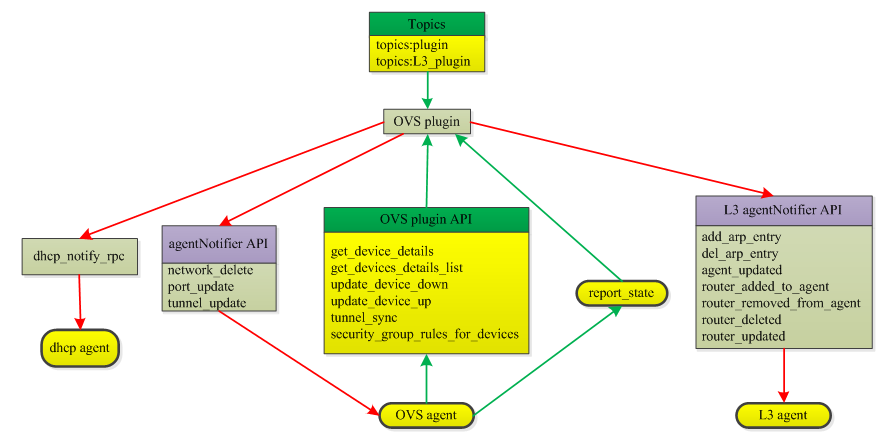
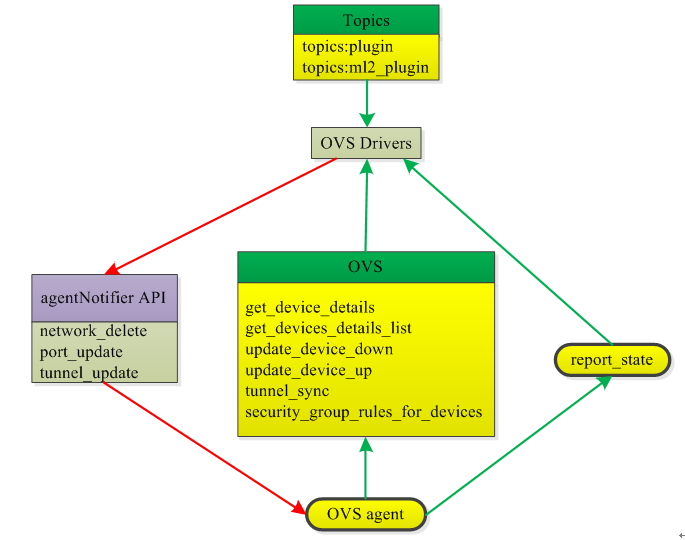
Site updated at 2016-04-14 03:39:11 UTC

diff --git a/blog/2016/04/13/rabbitmq-introduction/index.html b/blog/2016/04/13/rabbitmq-introduction/index.html
@@ -229,7 +229,7 @@
 
 <p>(3).镜像队列，实现不同节点之间的元数据和消息同步</p>
 
-<h2>RabbitMQ在OpenStack中的应用</h2>
+<h1><em>RabbitMQ在OpenStack中的应用</em></h1>
 
 <h3><strong>RPC之neutron专题</strong></h3>
 
@@ -313,11 +313,36 @@
 
 <h4>2.neutron-plugin中的RPC</h4>
 
-<p>以openvswitch的plugin为例进行分析。</p>
+<p>主要对ML2Plugin进行分析，包括两个类：RpcCallbacks和AgentNotifierApi。</p>
 
-<p>neutron.plugin.openvswitch.ovs_neutron_plugin.OVSNeutronPluginV2类在初始化的时候调用了self.setup_rpc方法。</p>
+<ul>
+<li><p><strong>RpcCallbacks：</strong>负责当agent往plugin发出rpc请求时候，plugin实现请求的相关动作，除了继承自父类（dhcp rpc、dvr rpc、sg_db rpc和tunnel rpc）中的方法，还包括get_port_from_device、get_device_details、get_devices_details_list、update_device_down、update_device_up、get_dvr_mac_address_by_host、get_compute_ports_on_host_by_subnet、get_subnet_for_dvr等方法。</p></li>
+<li><p><strong>AgentNotifierApi：</strong>负责当plugin往agent发出rpc请求（plugin通知agent）的时候，plugin端的方法。</p></li>
+</ul>
 
-<p>其代码为</p>
+
+<figure class='code'><figcaption><span></span></figcaption><div class="highlight"><table><tr><td class="gutter"><pre class="line-numbers"><span class='line-number'>1</span>
+<span class='line-number'>2</span>
+<span class='line-number'>3</span>
+<span class='line-number'>4</span>
+<span class='line-number'>5</span>
+<span class='line-number'>6</span>
+<span class='line-number'>7</span>
+</pre></td><td class='code'><pre><code class='python'><span class='line'><span class="k">def</span> <span class="nf">start_rpc_listeners</span><span class="p">(</span><span class="bp">self</span><span class="p">):</span>
+</span><span class='line'>    <span class="sd">&quot;&quot;&quot;RpcCallbacks中实现的方法：Start the RPC loop to let the plugin communicate with agents.&quot;&quot;&quot;</span>
+</span><span class='line'>    <span class="bp">self</span><span class="o">.</span><span class="n">_setup_rpc</span><span class="p">()</span>
+</span><span class='line'>    <span class="bp">self</span><span class="o">.</span><span class="n">topic</span> <span class="o">=</span> <span class="n">topics</span><span class="o">.</span><span class="n">PLUGIN</span>
+</span><span class='line'>    <span class="bp">self</span><span class="o">.</span><span class="n">conn</span> <span class="o">=</span> <span class="n">n_rpc</span><span class="o">.</span><span class="n">create_connection</span><span class="p">(</span><span class="n">new</span><span class="o">=</span><span class="bp">True</span><span class="p">)</span>
+</span><span class='line'>    <span class="bp">self</span><span class="o">.</span><span class="n">conn</span><span class="o">.</span><span class="n">create_consumer</span><span class="p">(</span><span class="bp">self</span><span class="o">.</span><span class="n">topic</span><span class="p">,</span> <span class="bp">self</span><span class="o">.</span><span class="n">endpoints</span><span class="p">,</span> <span class="n">fanout</span><span class="o">=</span><span class="bp">False</span><span class="p">)</span>
+</span><span class='line'>    <span class="k">return</span> <span class="bp">self</span><span class="o">.</span><span class="n">conn</span><span class="o">.</span><span class="n">consume_in_threads</span><span class="p">()</span>
+</span></code></pre></td></tr></table></div></figure>
+
+
+<p>创建一个通知rpc的客户端，用于向OVS的agent发出通知。所有plugin都需要有这样一个发出通知消息的客户端，创建了一个OVS agent的通知rpc客户端。之后，创建两个跟service agent相关的consumer，分别监听topics.PLUGIN</p>
+
+<p> <img src="/images/RPC_Neutron.PNG"></p>
+
+<p>ovs_neutron_agent也会创建RPC的consumer，用来监听topics.UPDATE、topics.DELETE等操作。</p>
 
 <figure class='code'><figcaption><span></span></figcaption><div class="highlight"><table><tr><td class="gutter"><pre class="line-numbers"><span class='line-number'>1</span>
 <span class='line-number'>2</span>
@@ -337,34 +362,30 @@
 <span class='line-number'>16</span>
 <span class='line-number'>17</span>
 <span class='line-number'>18</span>
+<span class='line-number'>19</span>
+<span class='line-number'>20</span>
 </pre></td><td class='code'><pre><code class='python'><span class='line'><span class="k">def</span> <span class="nf">setup_rpc</span><span class="p">(</span><span class="bp">self</span><span class="p">):</span>
-</span><span class='line'>        <span class="c"># RPC support</span>
-</span><span class='line'>        <span class="bp">self</span><span class="o">.</span><span class="n">service_topics</span> <span class="o">=</span> <span class="p">{</span><span class="n">svc_constants</span><span class="o">.</span><span class="n">CORE</span><span class="p">:</span> <span class="n">topics</span><span class="o">.</span><span class="n">PLUGIN</span><span class="p">,</span>
-</span><span class='line'>                               <span class="n">svc_constants</span><span class="o">.</span><span class="n">L3_ROUTER_NAT</span><span class="p">:</span> <span class="n">topics</span><span class="o">.</span><span class="n">L3PLUGIN</span><span class="p">}</span>
-</span><span class='line'>        <span class="bp">self</span><span class="o">.</span><span class="n">conn</span> <span class="o">=</span> <span class="n">n_rpc</span><span class="o">.</span><span class="n">create_connection</span><span class="p">(</span><span class="n">new</span><span class="o">=</span><span class="bp">True</span><span class="p">)</span>
-</span><span class='line'>        <span class="bp">self</span><span class="o">.</span><span class="n">notifier</span> <span class="o">=</span> <span class="n">AgentNotifierApi</span><span class="p">(</span><span class="n">topics</span><span class="o">.</span><span class="n">AGENT</span><span class="p">)</span>
-</span><span class='line'>        <span class="bp">self</span><span class="o">.</span><span class="n">agent_notifiers</span><span class="p">[</span><span class="n">q_const</span><span class="o">.</span><span class="n">AGENT_TYPE_DHCP</span><span class="p">]</span> <span class="o">=</span> <span class="p">(</span>
-</span><span class='line'>            <span class="n">dhcp_rpc_agent_api</span><span class="o">.</span><span class="n">DhcpAgentNotifyAPI</span><span class="p">()</span>
-</span><span class='line'>        <span class="p">)</span>
-</span><span class='line'>        <span class="bp">self</span><span class="o">.</span><span class="n">agent_notifiers</span><span class="p">[</span><span class="n">q_const</span><span class="o">.</span><span class="n">AGENT_TYPE_L3</span><span class="p">]</span> <span class="o">=</span> <span class="p">(</span>
-</span><span class='line'>            <span class="n">l3_rpc_agent_api</span><span class="o">.</span><span class="n">L3AgentNotifyAPI</span><span class="p">()</span>
-</span><span class='line'>        <span class="p">)</span>
-</span><span class='line'>        <span class="bp">self</span><span class="o">.</span><span class="n">endpoints</span> <span class="o">=</span> <span class="p">[</span><span class="n">OVSRpcCallbacks</span><span class="p">(</span><span class="bp">self</span><span class="o">.</span><span class="n">notifier</span><span class="p">,</span> <span class="bp">self</span><span class="o">.</span><span class="n">tunnel_type</span><span class="p">),</span>
-</span><span class='line'>                          <span class="n">agents_db</span><span class="o">.</span><span class="n">AgentExtRpcCallback</span><span class="p">()]</span>
-</span><span class='line'>        <span class="k">for</span> <span class="n">svc_topic</span> <span class="ow">in</span> <span class="bp">self</span><span class="o">.</span><span class="n">service_topics</span><span class="o">.</span><span class="n">values</span><span class="p">():</span>
-</span><span class='line'>            <span class="bp">self</span><span class="o">.</span><span class="n">conn</span><span class="o">.</span><span class="n">create_consumer</span><span class="p">(</span><span class="n">svc_topic</span><span class="p">,</span> <span class="bp">self</span><span class="o">.</span><span class="n">endpoints</span><span class="p">,</span> <span class="n">fanout</span><span class="o">=</span><span class="bp">False</span><span class="p">)</span>
-</span><span class='line'>        <span class="c"># Consume from all consumers in threads</span>
-</span><span class='line'>        <span class="bp">self</span><span class="o">.</span><span class="n">conn</span><span class="o">.</span><span class="n">consume_in_threads</span><span class="p">()</span>
+</span><span class='line'>        <span class="bp">self</span><span class="o">.</span><span class="n">agent_id</span> <span class="o">=</span> <span class="s">&#39;ovs-agent-</span><span class="si">%s</span><span class="s">&#39;</span> <span class="o">%</span> <span class="bp">self</span><span class="o">.</span><span class="n">conf</span><span class="o">.</span><span class="n">host</span>
+</span><span class='line'>        <span class="bp">self</span><span class="o">.</span><span class="n">topic</span> <span class="o">=</span> <span class="n">topics</span><span class="o">.</span><span class="n">AGENT</span>
+</span><span class='line'>        <span class="bp">self</span><span class="o">.</span><span class="n">plugin_rpc</span> <span class="o">=</span> <span class="n">OVSPluginApi</span><span class="p">(</span><span class="n">topics</span><span class="o">.</span><span class="n">PLUGIN</span><span class="p">)</span>
+</span><span class='line'>        <span class="bp">self</span><span class="o">.</span><span class="n">sg_plugin_rpc</span> <span class="o">=</span> <span class="n">sg_rpc</span><span class="o">.</span><span class="n">SecurityGroupServerRpcApi</span><span class="p">(</span><span class="n">topics</span><span class="o">.</span><span class="n">PLUGIN</span><span class="p">)</span>
+</span><span class='line'>        <span class="bp">self</span><span class="o">.</span><span class="n">dvr_plugin_rpc</span> <span class="o">=</span> <span class="n">dvr_rpc</span><span class="o">.</span><span class="n">DVRServerRpcApi</span><span class="p">(</span><span class="n">topics</span><span class="o">.</span><span class="n">PLUGIN</span><span class="p">)</span>
+</span><span class='line'>        <span class="bp">self</span><span class="o">.</span><span class="n">state_rpc</span> <span class="o">=</span> <span class="n">agent_rpc</span><span class="o">.</span><span class="n">PluginReportStateAPI</span><span class="p">(</span><span class="n">topics</span><span class="o">.</span><span class="n">PLUGIN</span><span class="p">)</span>
+</span><span class='line'>
+</span><span class='line'>        <span class="c"># RPC network init</span>
+</span><span class='line'>        <span class="bp">self</span><span class="o">.</span><span class="n">context</span> <span class="o">=</span> <span class="n">context</span><span class="o">.</span><span class="n">get_admin_context_without_session</span><span class="p">()</span>
+</span><span class='line'>        <span class="c"># Handle updates from service</span>
+</span><span class='line'>        <span class="bp">self</span><span class="o">.</span><span class="n">endpoints</span> <span class="o">=</span> <span class="p">[</span><span class="bp">self</span><span class="p">]</span>
+</span><span class='line'>        <span class="c"># Define the listening consumers for the agent</span>
+</span><span class='line'>        <span class="n">consumers</span> <span class="o">=</span> <span class="p">[[</span><span class="n">topics</span><span class="o">.</span><span class="n">PORT</span><span class="p">,</span> <span class="n">topics</span><span class="o">.</span><span class="n">UPDATE</span><span class="p">],</span>
+</span><span class='line'>                     <span class="p">[</span><span class="n">topics</span><span class="o">.</span><span class="n">PORT</span><span class="p">,</span> <span class="n">topics</span><span class="o">.</span><span class="n">DELETE</span><span class="p">],</span>
+</span><span class='line'>                     <span class="p">[</span><span class="n">constants</span><span class="o">.</span><span class="n">TUNNEL</span><span class="p">,</span> <span class="n">topics</span><span class="o">.</span><span class="n">UPDATE</span><span class="p">],</span>
+</span><span class='line'>                     <span class="p">[</span><span class="n">constants</span><span class="o">.</span><span class="n">TUNNEL</span><span class="p">,</span> <span class="n">topics</span><span class="o">.</span><span class="n">DELETE</span><span class="p">],</span>
+</span><span class='line'>                     <span class="p">[</span><span class="n">topics</span><span class="o">.</span><span class="n">SECURITY_GROUP</span><span class="p">,</span> <span class="n">topics</span><span class="o">.</span><span class="n">UPDATE</span><span class="p">],</span>
+</span><span class='line'>                     <span class="p">[</span><span class="n">topics</span><span class="o">.</span><span class="n">DVR</span><span class="p">,</span> <span class="n">topics</span><span class="o">.</span><span class="n">UPDATE</span><span class="p">],</span>
+</span><span class='line'>                     <span class="p">[</span><span class="n">topics</span><span class="o">.</span><span class="n">NETWORK</span><span class="p">,</span> <span class="n">topics</span><span class="o">.</span><span class="n">UPDATE</span><span class="p">]]</span>
 </span></code></pre></td></tr></table></div></figure>
 
-
-<p>创建一个通知rpc的客户端，用于向l2的agent发出通知。所有plugin都需要有这样一个发出通知消息的客户端。</p>
-
-<p>分别创建了一个dhcp agent和l3 agent的通知rpc客户端。</p>
-
-<p>之后，创建两个跟service agent相关的consumer，分别监听topics.PLUGIN和topics.L3PLUGIN两个主题。</p>
-
-<p> <img src="/images/RPC_Neutron.PNG"></p>
 
 <h4>3.neutron-server中的RPC</h4>
 

diff --git a/index.html b/index.html
@@ -253,7 +253,7 @@
 
 <p>(3).镜像队列，实现不同节点之间的元数据和消息同步</p>
 
-<h2>RabbitMQ在OpenStack中的应用</h2>
+<h1><em>RabbitMQ在OpenStack中的应用</em></h1>
 
 <h3><strong>RPC之neutron专题</strong></h3>
 
@@ -337,11 +337,36 @@
 
 <h4>2.neutron-plugin中的RPC</h4>
 
-<p>以openvswitch的plugin为例进行分析。</p>
+<p>主要对ML2Plugin进行分析，包括两个类：RpcCallbacks和AgentNotifierApi。</p>
 
-<p>neutron.plugin.openvswitch.ovs_neutron_plugin.OVSNeutronPluginV2类在初始化的时候调用了self.setup_rpc方法。</p>
+<ul>
+<li><p><strong>RpcCallbacks：</strong>负责当agent往plugin发出rpc请求时候，plugin实现请求的相关动作，除了继承自父类（dhcp rpc、dvr rpc、sg_db rpc和tunnel rpc）中的方法，还包括get_port_from_device、get_device_details、get_devices_details_list、update_device_down、update_device_up、get_dvr_mac_address_by_host、get_compute_ports_on_host_by_subnet、get_subnet_for_dvr等方法。</p></li>
+<li><p><strong>AgentNotifierApi：</strong>负责当plugin往agent发出rpc请求（plugin通知agent）的时候，plugin端的方法。</p></li>
+</ul>
 
-<p>其代码为</p>
+
+<figure class='code'><figcaption><span></span></figcaption><div class="highlight"><table><tr><td class="gutter"><pre class="line-numbers"><span class='line-number'>1</span>
+<span class='line-number'>2</span>
+<span class='line-number'>3</span>
+<span class='line-number'>4</span>
+<span class='line-number'>5</span>
+<span class='line-number'>6</span>
+<span class='line-number'>7</span>
+</pre></td><td class='code'><pre><code class='python'><span class='line'><span class="k">def</span> <span class="nf">start_rpc_listeners</span><span class="p">(</span><span class="bp">self</span><span class="p">):</span>
+</span><span class='line'>    <span class="sd">&quot;&quot;&quot;RpcCallbacks中实现的方法：Start the RPC loop to let the plugin communicate with agents.&quot;&quot;&quot;</span>
+</span><span class='line'>    <span class="bp">self</span><span class="o">.</span><span class="n">_setup_rpc</span><span class="p">()</span>
+</span><span class='line'>    <span class="bp">self</span><span class="o">.</span><span class="n">topic</span> <span class="o">=</span> <span class="n">topics</span><span class="o">.</span><span class="n">PLUGIN</span>
+</span><span class='line'>    <span class="bp">self</span><span class="o">.</span><span class="n">conn</span> <span class="o">=</span> <span class="n">n_rpc</span><span class="o">.</span><span class="n">create_connection</span><span class="p">(</span><span class="n">new</span><span class="o">=</span><span class="bp">True</span><span class="p">)</span>
+</span><span class='line'>    <span class="bp">self</span><span class="o">.</span><span class="n">conn</span><span class="o">.</span><span class="n">create_consumer</span><span class="p">(</span><span class="bp">self</span><span class="o">.</span><span class="n">topic</span><span class="p">,</span> <span class="bp">self</span><span class="o">.</span><span class="n">endpoints</span><span class="p">,</span> <span class="n">fanout</span><span class="o">=</span><span class="bp">False</span><span class="p">)</span>
+</span><span class='line'>    <span class="k">return</span> <span class="bp">self</span><span class="o">.</span><span class="n">conn</span><span class="o">.</span><span class="n">consume_in_threads</span><span class="p">()</span>
+</span></code></pre></td></tr></table></div></figure>
+
+
+<p>创建一个通知rpc的客户端，用于向OVS的agent发出通知。所有plugin都需要有这样一个发出通知消息的客户端，创建了一个OVS agent的通知rpc客户端。之后，创建两个跟service agent相关的consumer，分别监听topics.PLUGIN</p>
+
+<p> <img src="/images/RPC_Neutron.PNG"></p>
+
+<p>ovs_neutron_agent也会创建RPC的consumer，用来监听topics.UPDATE、topics.DELETE等操作。</p>
 
 <figure class='code'><figcaption><span></span></figcaption><div class="highlight"><table><tr><td class="gutter"><pre class="line-numbers"><span class='line-number'>1</span>
 <span class='line-number'>2</span>
@@ -361,34 +386,30 @@
 <span class='line-number'>16</span>
 <span class='line-number'>17</span>
 <span class='line-number'>18</span>
+<span class='line-number'>19</span>
+<span class='line-number'>20</span>
 </pre></td><td class='code'><pre><code class='python'><span class='line'><span class="k">def</span> <span class="nf">setup_rpc</span><span class="p">(</span><span class="bp">self</span><span class="p">):</span>
-</span><span class='line'>        <span class="c"># RPC support</span>
-</span><span class='line'>        <span class="bp">self</span><span class="o">.</span><span class="n">service_topics</span> <span class="o">=</span> <span class="p">{</span><span class="n">svc_constants</span><span class="o">.</span><span class="n">CORE</span><span class="p">:</span> <span class="n">topics</span><span class="o">.</span><span class="n">PLUGIN</span><span class="p">,</span>
-</span><span class='line'>                               <span class="n">svc_constants</span><span class="o">.</span><span class="n">L3_ROUTER_NAT</span><span class="p">:</span> <span class="n">topics</span><span class="o">.</span><span class="n">L3PLUGIN</span><span class="p">}</span>
-</span><span class='line'>        <span class="bp">self</span><span class="o">.</span><span class="n">conn</span> <span class="o">=</span> <span class="n">n_rpc</span><span class="o">.</span><span class="n">create_connection</span><span class="p">(</span><span class="n">new</span><span class="o">=</span><span class="bp">True</span><span class="p">)</span>
-</span><span class='line'>        <span class="bp">self</span><span class="o">.</span><span class="n">notifier</span> <span class="o">=</span> <span class="n">AgentNotifierApi</span><span class="p">(</span><span class="n">topics</span><span class="o">.</span><span class="n">AGENT</span><span class="p">)</span>
-</span><span class='line'>        <span class="bp">self</span><span class="o">.</span><span class="n">agent_notifiers</span><span class="p">[</span><span class="n">q_const</span><span class="o">.</span><span class="n">AGENT_TYPE_DHCP</span><span class="p">]</span> <span class="o">=</span> <span class="p">(</span>
-</span><span class='line'>            <span class="n">dhcp_rpc_agent_api</span><span class="o">.</span><span class="n">DhcpAgentNotifyAPI</span><span class="p">()</span>
-</span><span class='line'>        <span class="p">)</span>
-</span><span class='line'>        <span class="bp">self</span><span class="o">.</span><span class="n">agent_notifiers</span><span class="p">[</span><span class="n">q_const</span><span class="o">.</span><span class="n">AGENT_TYPE_L3</span><span class="p">]</span> <span class="o">=</span> <span class="p">(</span>
-</span><span class='line'>            <span class="n">l3_rpc_agent_api</span><span class="o">.</span><span class="n">L3AgentNotifyAPI</span><span class="p">()</span>
-</span><span class='line'>        <span class="p">)</span>
-</span><span class='line'>        <span class="bp">self</span><span class="o">.</span><span class="n">endpoints</span> <span class="o">=</span> <span class="p">[</span><span class="n">OVSRpcCallbacks</span><span class="p">(</span><span class="bp">self</span><span class="o">.</span><span class="n">notifier</span><span class="p">,</span> <span class="bp">self</span><span class="o">.</span><span class="n">tunnel_type</span><span class="p">),</span>
-</span><span class='line'>                          <span class="n">agents_db</span><span class="o">.</span><span class="n">AgentExtRpcCallback</span><span class="p">()]</span>
-</span><span class='line'>        <span class="k">for</span> <span class="n">svc_topic</span> <span class="ow">in</span> <span class="bp">self</span><span class="o">.</span><span class="n">service_topics</span><span class="o">.</span><span class="n">values</span><span class="p">():</span>
-</span><span class='line'>            <span class="bp">self</span><span class="o">.</span><span class="n">conn</span><span class="o">.</span><span class="n">create_consumer</span><span class="p">(</span><span class="n">svc_topic</span><span class="p">,</span> <span class="bp">self</span><span class="o">.</span><span class="n">endpoints</span><span class="p">,</span> <span class="n">fanout</span><span class="o">=</span><span class="bp">False</span><span class="p">)</span>
-</span><span class='line'>        <span class="c"># Consume from all consumers in threads</span>
-</span><span class='line'>        <span class="bp">self</span><span class="o">.</span><span class="n">conn</span><span class="o">.</span><span class="n">consume_in_threads</span><span class="p">()</span>
+</span><span class='line'>        <span class="bp">self</span><span class="o">.</span><span class="n">agent_id</span> <span class="o">=</span> <span class="s">&#39;ovs-agent-</span><span class="si">%s</span><span class="s">&#39;</span> <span class="o">%</span> <span class="bp">self</span><span class="o">.</span><span class="n">conf</span><span class="o">.</span><span class="n">host</span>
+</span><span class='line'>        <span class="bp">self</span><span class="o">.</span><span class="n">topic</span> <span class="o">=</span> <span class="n">topics</span><span class="o">.</span><span class="n">AGENT</span>
+</span><span class='line'>        <span class="bp">self</span><span class="o">.</span><span class="n">plugin_rpc</span> <span class="o">=</span> <span class="n">OVSPluginApi</span><span class="p">(</span><span class="n">topics</span><span class="o">.</span><span class="n">PLUGIN</span><span class="p">)</span>
+</span><span class='line'>        <span class="bp">self</span><span class="o">.</span><span class="n">sg_plugin_rpc</span> <span class="o">=</span> <span class="n">sg_rpc</span><span class="o">.</span><span class="n">SecurityGroupServerRpcApi</span><span class="p">(</span><span class="n">topics</span><span class="o">.</span><span class="n">PLUGIN</span><span class="p">)</span>
+</span><span class='line'>        <span class="bp">self</span><span class="o">.</span><span class="n">dvr_plugin_rpc</span> <span class="o">=</span> <span class="n">dvr_rpc</span><span class="o">.</span><span class="n">DVRServerRpcApi</span><span class="p">(</span><span class="n">topics</span><span class="o">.</span><span class="n">PLUGIN</span><span class="p">)</span>
+</span><span class='line'>        <span class="bp">self</span><span class="o">.</span><span class="n">state_rpc</span> <span class="o">=</span> <span class="n">agent_rpc</span><span class="o">.</span><span class="n">PluginReportStateAPI</span><span class="p">(</span><span class="n">topics</span><span class="o">.</span><span class="n">PLUGIN</span><span class="p">)</span>
+</span><span class='line'>
+</span><span class='line'>        <span class="c"># RPC network init</span>
+</span><span class='line'>        <span class="bp">self</span><span class="o">.</span><span class="n">context</span> <span class="o">=</span> <span class="n">context</span><span class="o">.</span><span class="n">get_admin_context_without_session</span><span class="p">()</span>
+</span><span class='line'>        <span class="c"># Handle updates from service</span>
+</span><span class='line'>        <span class="bp">self</span><span class="o">.</span><span class="n">endpoints</span> <span class="o">=</span> <span class="p">[</span><span class="bp">self</span><span class="p">]</span>
+</span><span class='line'>        <span class="c"># Define the listening consumers for the agent</span>
+</span><span class='line'>        <span class="n">consumers</span> <span class="o">=</span> <span class="p">[[</span><span class="n">topics</span><span class="o">.</span><span class="n">PORT</span><span class="p">,</span> <span class="n">topics</span><span class="o">.</span><span class="n">UPDATE</span><span class="p">],</span>
+</span><span class='line'>                     <span class="p">[</span><span class="n">topics</span><span class="o">.</span><span class="n">PORT</span><span class="p">,</span> <span class="n">topics</span><span class="o">.</span><span class="n">DELETE</span><span class="p">],</span>
+</span><span class='line'>                     <span class="p">[</span><span class="n">constants</span><span class="o">.</span><span class="n">TUNNEL</span><span class="p">,</span> <span class="n">topics</span><span class="o">.</span><span class="n">UPDATE</span><span class="p">],</span>
+</span><span class='line'>                     <span class="p">[</span><span class="n">constants</span><span class="o">.</span><span class="n">TUNNEL</span><span class="p">,</span> <span class="n">topics</span><span class="o">.</span><span class="n">DELETE</span><span class="p">],</span>
+</span><span class='line'>                     <span class="p">[</span><span class="n">topics</span><span class="o">.</span><span class="n">SECURITY_GROUP</span><span class="p">,</span> <span class="n">topics</span><span class="o">.</span><span class="n">UPDATE</span><span class="p">],</span>
+</span><span class='line'>                     <span class="p">[</span><span class="n">topics</span><span class="o">.</span><span class="n">DVR</span><span class="p">,</span> <span class="n">topics</span><span class="o">.</span><span class="n">UPDATE</span><span class="p">],</span>
+</span><span class='line'>                     <span class="p">[</span><span class="n">topics</span><span class="o">.</span><span class="n">NETWORK</span><span class="p">,</span> <span class="n">topics</span><span class="o">.</span><span class="n">UPDATE</span><span class="p">]]</span>
 </span></code></pre></td></tr></table></div></figure>
 
-
-<p>创建一个通知rpc的客户端，用于向l2的agent发出通知。所有plugin都需要有这样一个发出通知消息的客户端。</p>
-
-<p>分别创建了一个dhcp agent和l3 agent的通知rpc客户端。</p>
-
-<p>之后，创建两个跟service agent相关的consumer，分别监听topics.PLUGIN和topics.L3PLUGIN两个主题。</p>
-
-<p> <img src="/images/RPC_Neutron.PNG"></p>
 
 <h4>3.neutron-server中的RPC</h4>
 
